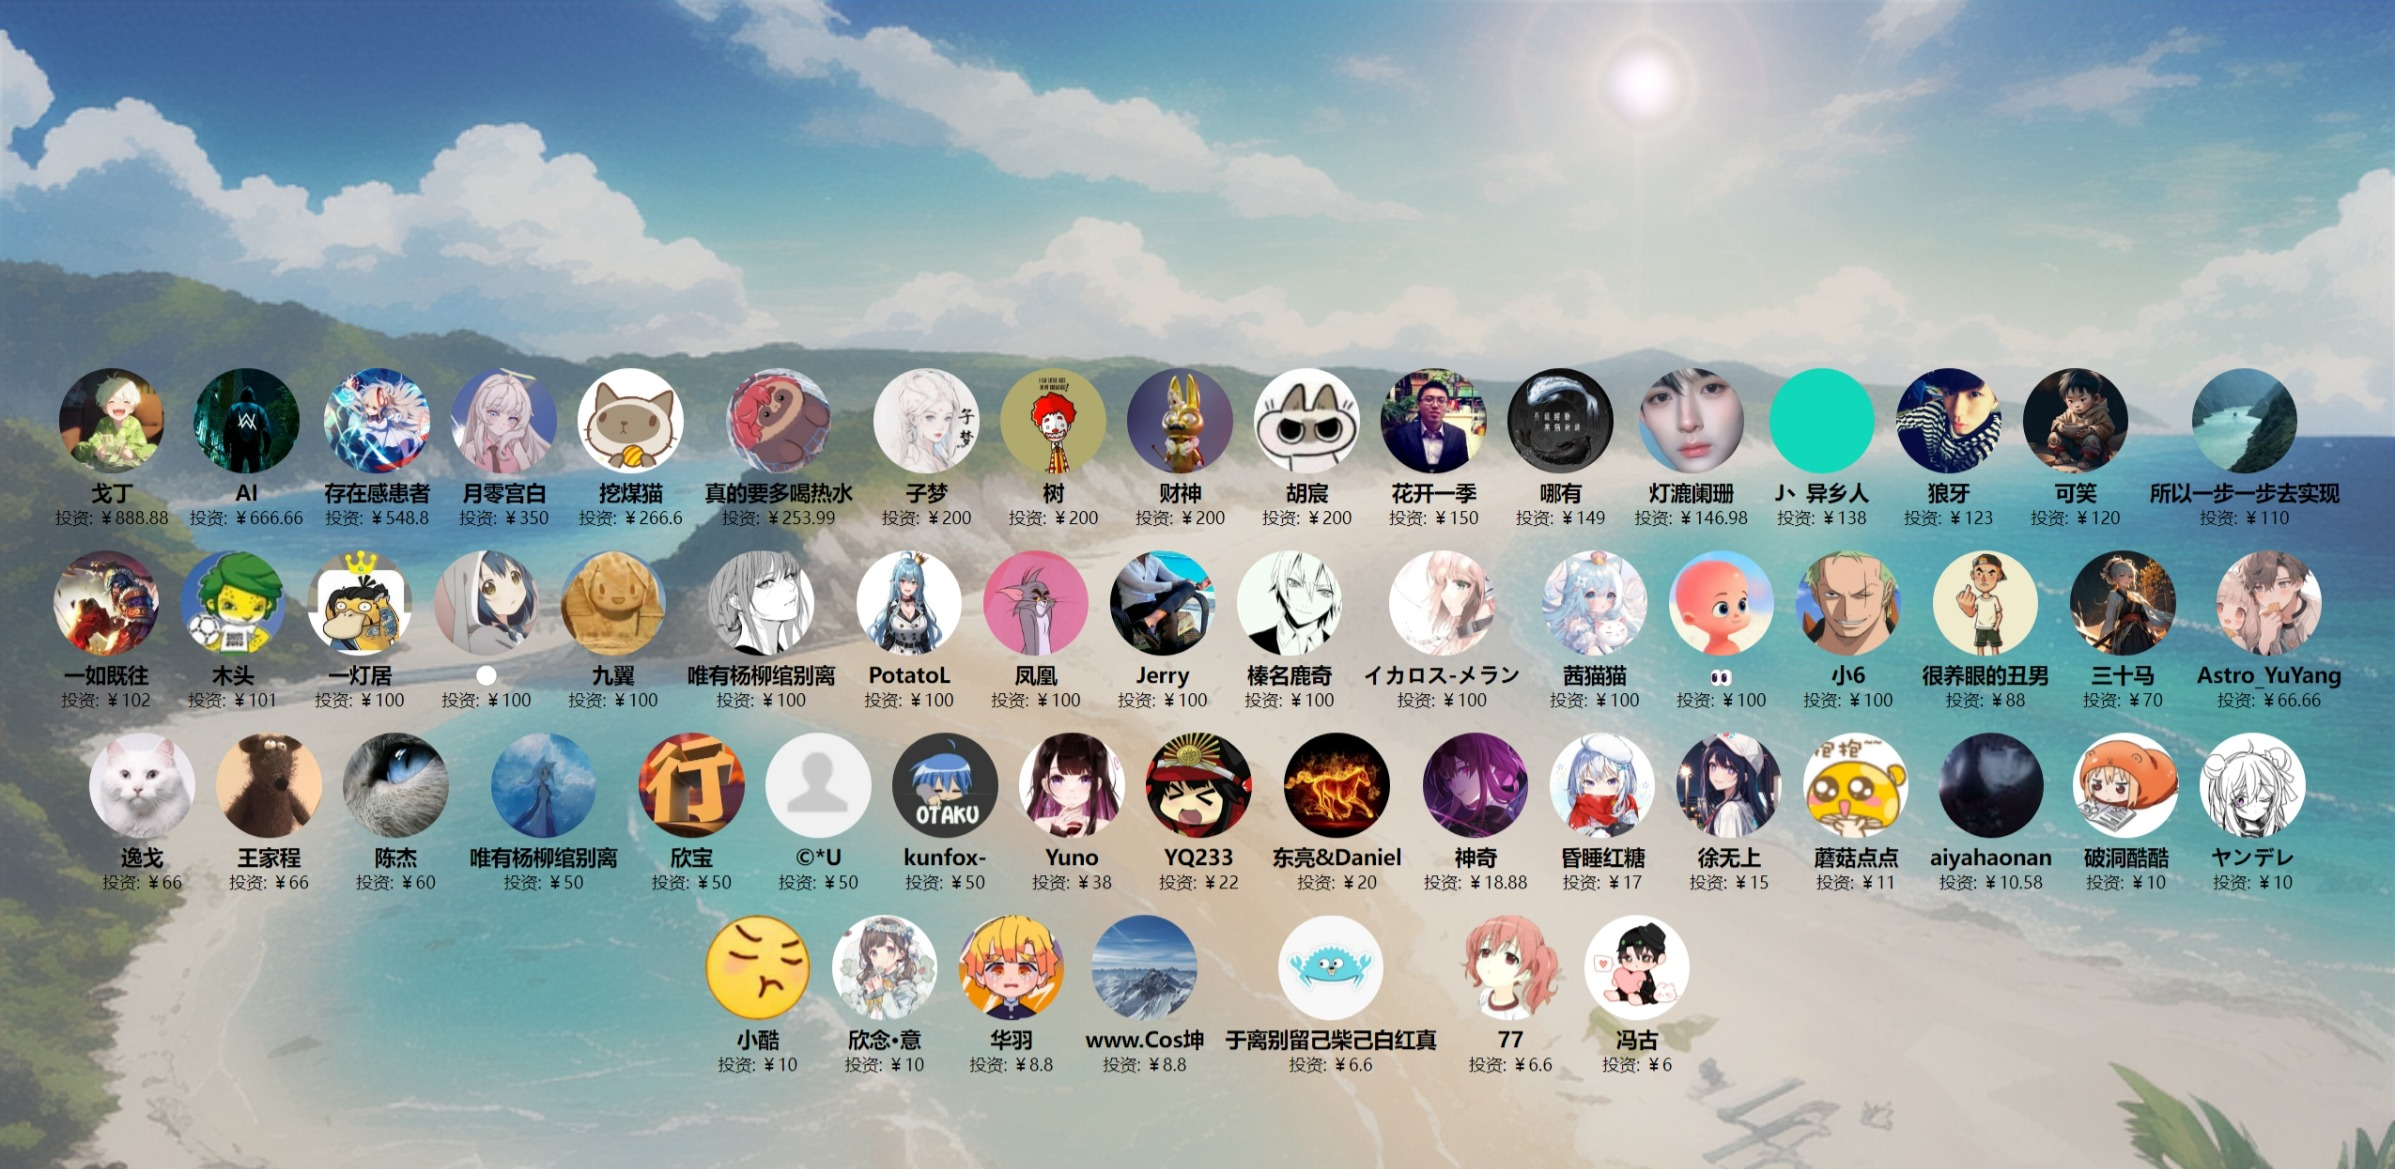
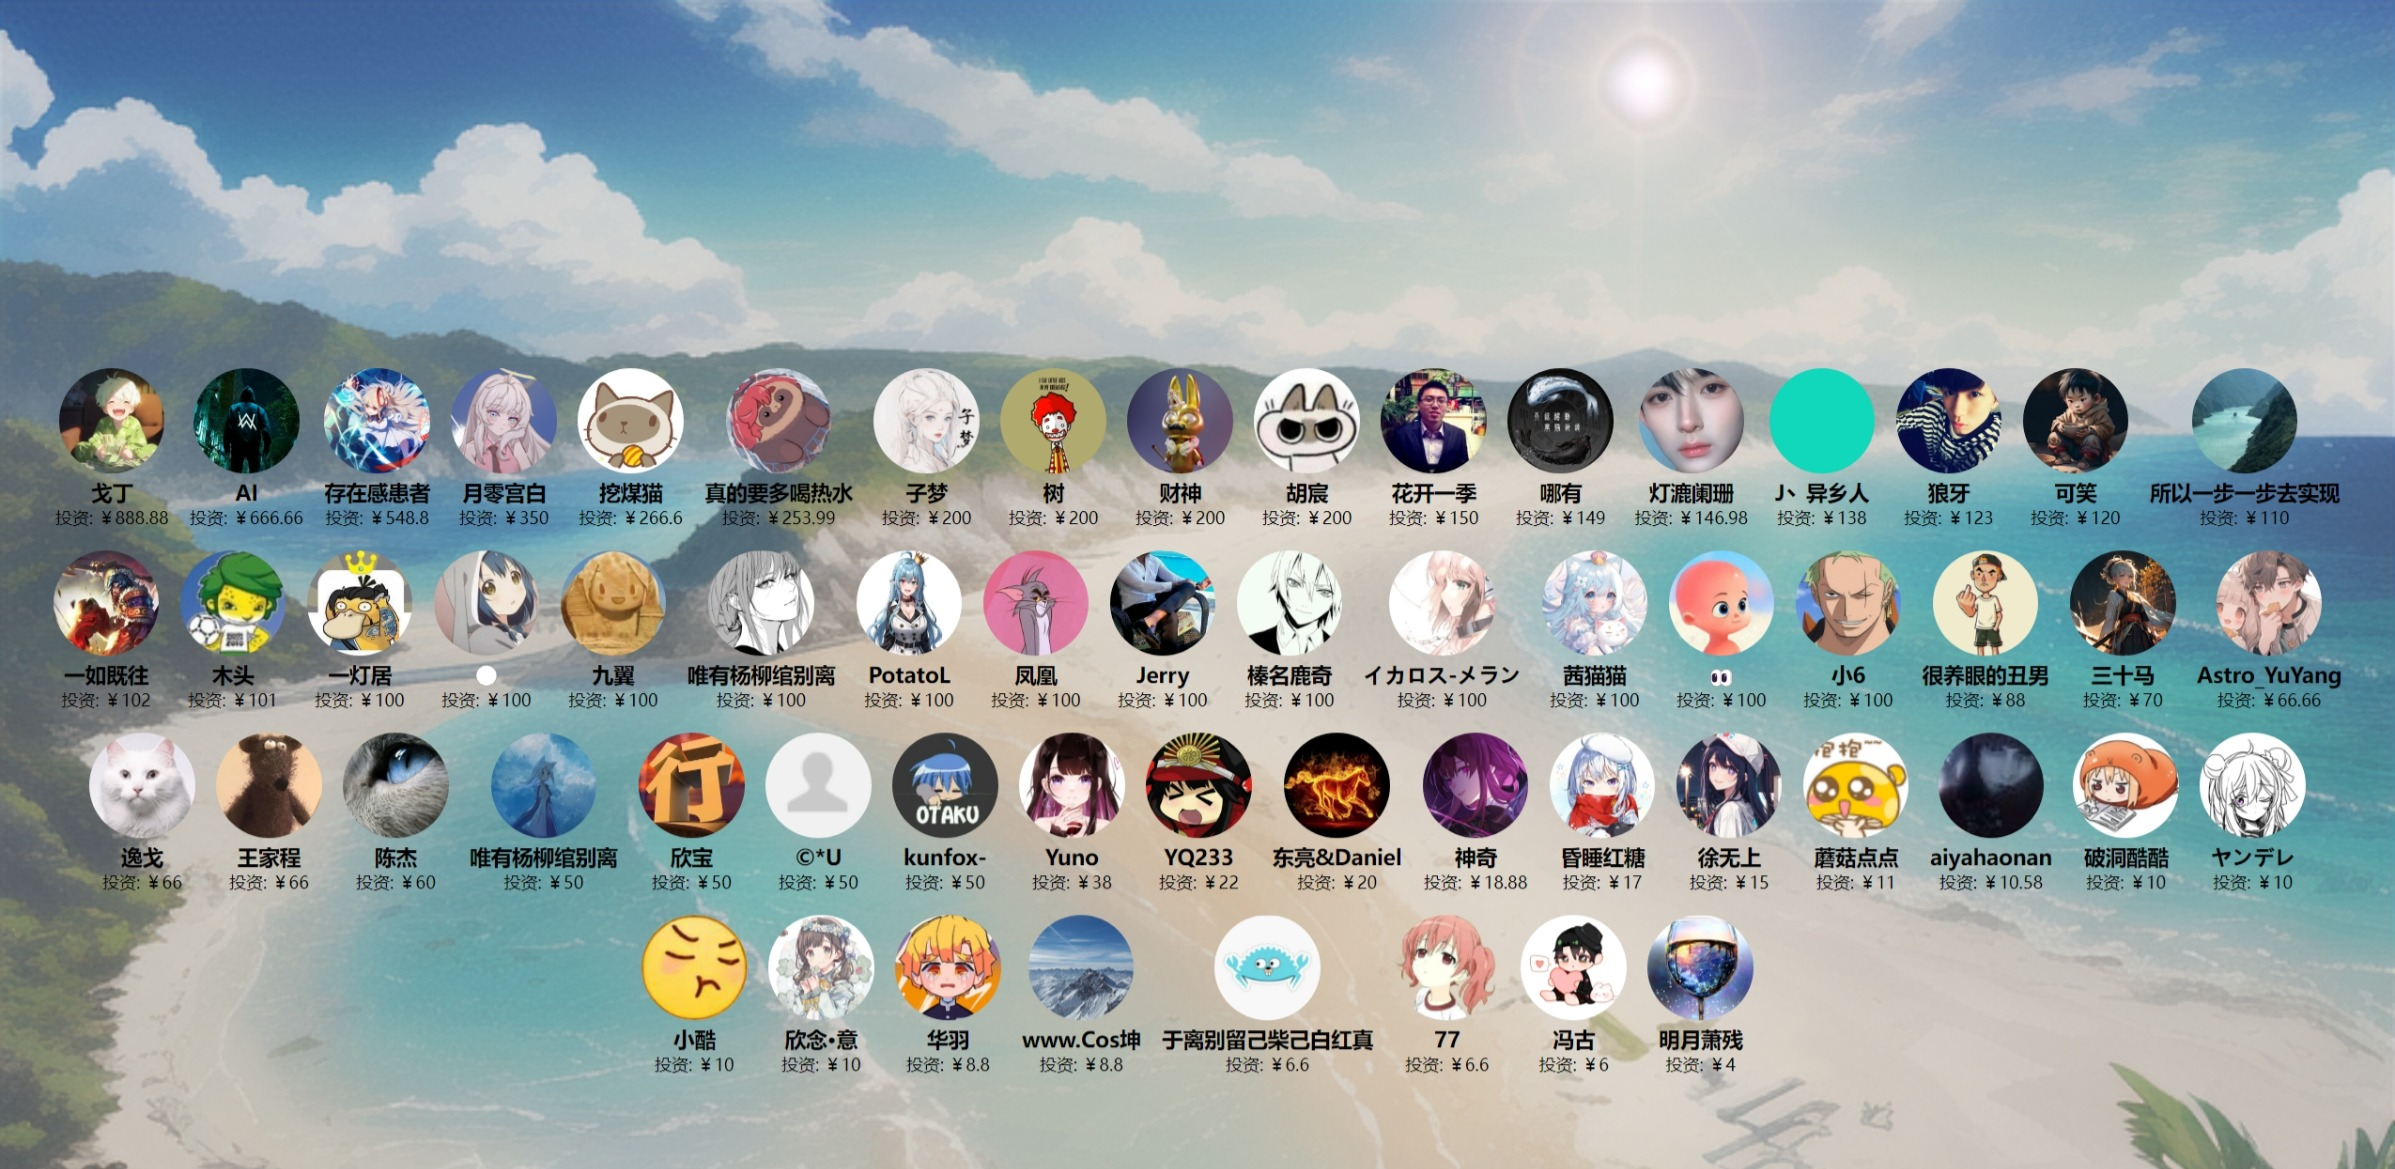
更新投资人

Changed region(s): [[0.2472, 0.7699, 0.7415, 0.9239]]

diff --git a/docs/投资人/index.html b/docs/投资人/index.html
@@ -340,6 +340,11 @@
             name: "冯古",
             avatar: "https://images.cnblogs.com/cnblogs_com/ikaros-521/2328032/o_230719074436_%E5%86%AF%E5%8F%A4.jpg",
             amount: "￥6"
+        },
+        {
+            name: "明月萧残",
+            avatar: "https://images.cnblogs.com/cnblogs_com/ikaros-521/2328032/o_231126161028_QQ%E5%9B%BE%E7%89%8720231127001005.jpg",
+            amount: "￥4"
         }
     ];
 
